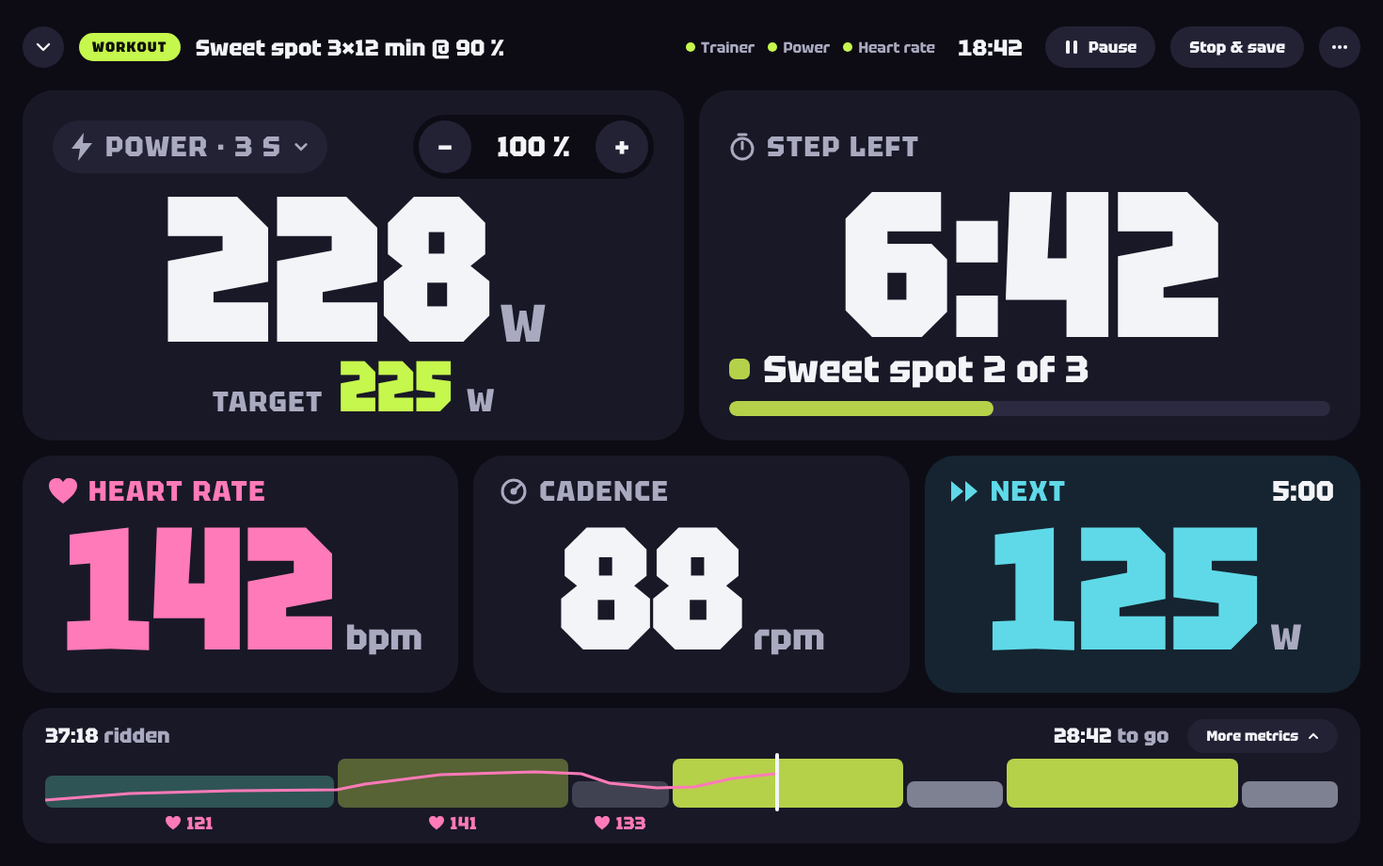
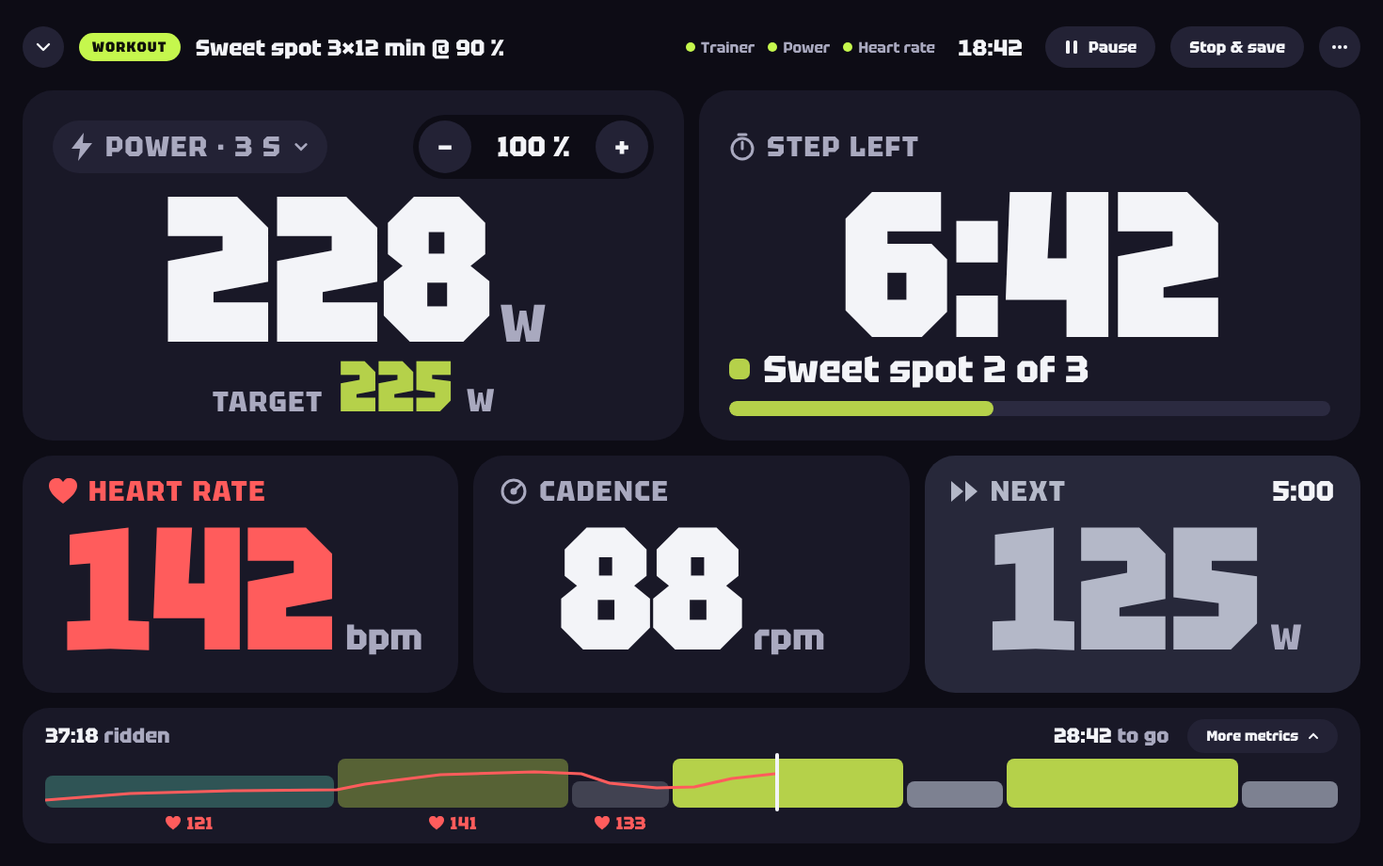
Mockups: zone-coloured Next tile and target, red heart rate; add board 1b
Claude-Session: https://claude.ai/code/session_01UuCQ5EyiaML7dv8FTSu4wK

diff --git a/design/app-redesign/1b-workout-recovery-step.html b/design/app-redesign/1b-workout-recovery-step.html
@@ -1,0 +1,81 @@
+<!doctype html>
+<html lang="en">
+<head>
+<meta charset="utf-8">
+<title>FTPunk mockup · Workout cockpit, recovery step</title>
+<link rel="preconnect" href="https://fonts.googleapis.com">
+<link href="https://fonts.googleapis.com/css2?family=Tektur:wdth,wght@75..100,400..900&amp;display=swap" rel="stylesheet">
+<style>
+body{margin:0;background:#0d0c15}
+.tile{background:#191827;border-radius:32px;box-sizing:border-box;display:flex;flex-direction:column;justify-content:space-between;min-width:0}
+.lab{font:800 30px/1 Tektur,sans-serif;letter-spacing:.05em;text-transform:uppercase;color:#a9a9bf;display:flex;align-items:center;gap:12px}
+.num{font-family:Tektur,sans-serif;font-weight:900;font-variant-numeric:tabular-nums;letter-spacing:-.02em;line-height:.8;font-variation-settings:"wdth" 85}
+.unit{font:800 44px/1 Tektur,sans-serif;color:#a9a9bf;margin-left:12px}
+.adj{all:unset;cursor:pointer;display:grid;place-items:center;min-width:56px;height:56px;padding:0 6px;box-sizing:border-box;border-radius:28px;background:#232235;color:#f3f4f8;font:800 26px Tektur,sans-serif}
+.pick{all:unset;cursor:pointer;box-sizing:border-box;display:flex;align-items:center;gap:12px;height:56px;padding:0 20px 0 18px;border-radius:28px;background:#232235;font:800 30px/1 Tektur,sans-serif;letter-spacing:.05em;text-transform:uppercase;color:#a9a9bf}
+.btn{all:unset;cursor:pointer;box-sizing:border-box;display:inline-flex;align-items:center;gap:10px;height:44px;padding:0 20px;border-radius:22px;font:800 17px Tektur,sans-serif;background:#232235;color:#f3f4f8}
+</style>
+</head>
+<body>
+<div style="width:1470px;height:920px;box-sizing:border-box;padding:20px 24px 24px;display:flex;flex-direction:column;gap:16px;background:#0d0c15;color:#f3f4f8;font-family:Tektur,sans-serif;overflow:hidden">
+  <header style="height:60px;flex-shrink:0;display:flex;align-items:center;gap:16px">
+    <button type="button" class="btn" aria-label="Minimise ride" style="width:44px;padding:0;justify-content:center"><svg aria-hidden="true" width="20" height="20" viewBox="0 0 20 20" fill="none" stroke="currentColor" stroke-width="2.4" stroke-linecap="round" stroke-linejoin="round"><path d="M4 7l6 6 6-6"></path></svg></button>
+    <span style="display:inline-flex;align-items:center;height:30px;padding:0 14px;border-radius:15px;background:#c5f74d;color:#10110a;font:900 15px Tektur;letter-spacing:.08em">WORKOUT</span>
+    <span style="font:800 24px Tektur">Sweet spot 3×12 min @ 90 %</span>
+    <span style="flex-grow:1"></span>
+    <span style="display:flex;align-items:center;gap:14px;font:700 16px Tektur;color:#a9a9bf"><span style="display:flex;align-items:center;gap:6px"><i style="width:10px;height:10px;border-radius:5px;background:#c5f74d"></i>Trainer</span><span style="display:flex;align-items:center;gap:6px"><i style="width:10px;height:10px;border-radius:5px;background:#c5f74d"></i>Power</span><span style="display:flex;align-items:center;gap:6px"><i style="width:10px;height:10px;border-radius:5px;background:#c5f74d"></i>Heart rate</span></span>
+    <span style="font:800 24px Tektur;font-variant-numeric:tabular-nums;margin:0 8px">18:42</span>
+    <button type="button" class="btn"><svg aria-hidden="true" width="16" height="16" viewBox="0 0 16 16" fill="currentColor"><rect x="2" y="1" width="4" height="14" rx="1.5"></rect><rect x="10" y="1" width="4" height="14" rx="1.5"></rect></svg>Pause</button>
+    <button type="button" class="btn">Stop &amp; save</button>
+    <button type="button" class="btn" aria-label="More options" style="width:44px;padding:0;justify-content:center"><svg aria-hidden="true" width="20" height="20" viewBox="0 0 20 20" fill="currentColor"><circle cx="4" cy="10" r="2"></circle><circle cx="10" cy="10" r="2"></circle><circle cx="16" cy="10" r="2"></circle></svg></button>
+  </header>
+
+  <div style="height:372px;flex-shrink:0;display:grid;grid-template-columns:repeat(2,minmax(0,1fr));gap:16px">
+    <section class="tile" style="padding:26px 32px">
+      <div style="display:flex;align-items:center;justify-content:space-between;min-height:68px">
+        <button type="button" class="pick" aria-label="Power average, 3 seconds. Change"><svg aria-hidden="true" width="26" height="30" viewBox="0 0 26 30" fill="#a9a9bf"><path d="M15 0L2 17h9l-2 13 15-19h-10z"></path></svg>Power · 3 s<svg aria-hidden="true" width="16" height="16" viewBox="0 0 12 12" fill="none" stroke="currentColor" stroke-width="2" stroke-linecap="round"><path d="M2 4l4 4 4-4"></path></svg></button>
+        <span style="display:flex;align-items:center;gap:6px;padding:6px;border-radius:34px;background:#0d0c15"><button type="button" class="adj" aria-label="Lower intensity by 1 percent">−</button><span style="min-width:120px;text-align:center;font:800 30px/1 Tektur,sans-serif">100 %</span><button type="button" class="adj" aria-label="Raise intensity by 1 percent">+</button></span>
+      </div>
+      <p style="margin:0;display:flex;align-items:baseline;justify-content:center"><span class="num" style="font-size:220px">127</span><span class="unit" style="font-size:56px">W</span></p>
+      <div style="display:flex;align-items:baseline;justify-content:center;gap:16px"><span class="lab">Target</span><span class="num" style="font-size:76px;color:#b4b8c8">125</span><span class="unit" style="font-size:34px;margin-left:0">W</span></div>
+    </section>
+    <section class="tile" style="padding:26px 32px">
+      <div style="display:flex;align-items:center;justify-content:space-between;min-height:68px">
+        <span class="lab"><svg aria-hidden="true" width="28" height="30" viewBox="0 0 28 30" fill="none" stroke="#a9a9bf" stroke-width="3" stroke-linecap="round"><circle cx="14" cy="17" r="11"></circle><path d="M14 17V10M10 2h8"></path></svg>Step left</span>
+        
+      </div>
+      <p style="margin:0;text-align:center"><span class="num" style="font-size:220px">3:10</span></p>
+      <div style="display:flex;flex-direction:column;gap:14px">
+        <span style="display:flex;align-items:center;gap:14px;font:800 40px/1 Tektur"><i style="width:22px;height:22px;border-radius:7px;background:#7d8191" aria-hidden="true"></i>Recovery 2 of 3</span>
+        <div style="height:16px;border-radius:8px;background:#2b2a40;overflow:hidden" aria-hidden="true"><i style="display:block;width:37%;height:100%;border-radius:8px;background:#7d8191"></i></div>
+      </div>
+    </section>
+  </div>
+
+  <div style="height:252px;flex-shrink:0;display:grid;grid-template-columns:repeat(3,minmax(0,1fr));gap:16px">
+    <section style="background:#191827;border-radius:32px;box-sizing:border-box;display:flex;flex-direction:column;min-width:0;padding:22px 28px">
+      <span style="display:flex;align-items:center;justify-content:space-between;min-height:32px"><span class="lab" style="color:#ff5c5c"><svg aria-hidden="true" width="30" height="28" viewBox="0 0 30 28" fill="#ff5c5c"><path d="M15 27C4 19 0 13 0 8a8 8 0 0115-4 8 8 0 0115 4c0 5-4 11-15 19z"></path></svg>Heart rate</span></span>
+      <span style="flex-grow:1;display:flex;align-items:center;justify-content:center"><span style="display:flex;align-items:baseline"><span class="num" style="font-size:185px;color:#ff5c5c">128</span><span class="unit" style="font-size:38px">bpm</span></span></span>
+    </section>
+    <section style="background:#191827;border-radius:32px;box-sizing:border-box;display:flex;flex-direction:column;min-width:0;padding:22px 28px">
+      <span style="display:flex;align-items:center;justify-content:space-between;min-height:32px"><span class="lab" style="color:#a9a9bf"><svg aria-hidden="true" width="30" height="30" viewBox="0 0 30 30" fill="none" stroke="#a9a9bf" stroke-width="3" stroke-linecap="round"><circle cx="15" cy="15" r="12"></circle><path d="M15 15l7-7"></path><circle cx="15" cy="15" r="2" fill="#a9a9bf"></circle></svg>Cadence</span></span>
+      <span style="flex-grow:1;display:flex;align-items:center;justify-content:center"><span style="display:flex;align-items:baseline"><span class="num" style="font-size:185px;color:#f3f4f8">86</span><span class="unit" style="font-size:38px">rpm</span></span></span>
+    </section>
+    <button type="button" aria-label="Next: Sweet spot, 225 watts, 12 minutes. Skip to it now" style="all:unset;cursor:pointer;background:#2a3320;border-radius:32px;box-sizing:border-box;display:flex;flex-direction:column;min-width:0;padding:22px 28px">
+      <span style="display:flex;align-items:center;justify-content:space-between;min-height:32px"><span class="lab" style="color:#b5d14a"><svg aria-hidden="true" width="30" height="26" viewBox="0 0 30 26" fill="#b5d14a"><path d="M0 2l13 11L0 24zM15 2l13 11-13 11z"></path></svg>Next</span><span style="font:800 30px/1 Tektur,sans-serif;color:#f3f4f8">12:00</span></span>
+      <span style="flex-grow:1;display:flex;align-items:center;justify-content:center"><span style="display:flex;align-items:baseline"><span class="num" style="font-size:185px;color:#b5d14a">225</span><span class="unit" style="font-size:38px">W</span></span></span>
+    </button>
+  </div>
+
+  <section aria-label="Workout profile with the heart-rate line and the average heart rate of each finished step" style="flex-grow:1;min-height:0;background:#191827;border-radius:28px;padding:12px 24px;box-sizing:border-box;display:flex;flex-direction:column;justify-content:space-between">
+    <div style="display:flex;align-items:center;gap:20px;font:800 22px/1 Tektur;color:#a9a9bf"><span style="flex-grow:1"><span style="color:#f3f4f8">45:50</span> ridden</span><span><span style="color:#f3f4f8">20:10</span> to go</span><button type="button" class="btn" style="height:36px;font-size:15px" aria-expanded="false">More metrics<svg aria-hidden="true" width="12" height="12" viewBox="0 0 12 12" fill="none" stroke="currentColor" stroke-width="2" stroke-linecap="round"><path d="M2 8l4-4 4 4"></path></svg></button></div>
+    <div style="position:relative;height:52px;display:flex;align-items:flex-end;gap:4px" aria-hidden="true">
+      <i style="flex:15;height:34px;border-radius:8px;background:#4fae9c;opacity:.4"></i><i style="flex:12;height:52px;border-radius:8px;background:#b5d14a;opacity:.4"></i><i style="flex:5;height:28px;border-radius:8px;background:#7d8191;opacity:.4"></i><i style="flex:12;height:52px;border-radius:8px;background:#b5d14a;opacity:.4"></i><i style="flex:5;height:28px;border-radius:8px;background:#7d8191"></i><i style="flex:12;height:52px;border-radius:8px;background:#b5d14a"></i><i style="flex:5;height:28px;border-radius:8px;background:#7d8191"></i>
+      <svg viewBox="0 0 1374 52" preserveAspectRatio="none" style="position:absolute;left:0;top:0;width:100%;height:52px"><polyline fill="none" stroke="#ff5c5c" stroke-width="3" stroke-linejoin="round" points="0,44 90,37 200,34 310,33 340,27 420,17 520,14 570,16 600,26 650,31 690,30 730,21 776,16 860,13 912,14 935,24 958,29"></polyline></svg>
+      <i style="position:absolute;left:69.8%;top:-6px;bottom:-4px;width:4px;border-radius:2px;background:#f3f4f8"></i>
+    </div>
+    <div style="display:flex;gap:4px;height:20px;font:800 19px/1 Tektur,sans-serif"><span style="flex:15;display:flex;align-items:center;justify-content:center;gap:6px;color:#ff5c5c"><svg aria-hidden="true" width="16" height="15" viewBox="0 0 30 28" fill="#ff5c5c"><path d="M15 27C4 19 0 13 0 8a8 8 0 0115-4 8 8 0 0115 4c0 5-4 11-15 19z"></path></svg>121</span><span style="flex:12;display:flex;align-items:center;justify-content:center;gap:6px;color:#ff5c5c"><svg aria-hidden="true" width="16" height="15" viewBox="0 0 30 28" fill="#ff5c5c"><path d="M15 27C4 19 0 13 0 8a8 8 0 0115-4 8 8 0 0115 4c0 5-4 11-15 19z"></path></svg>141</span><span style="flex:5;display:flex;align-items:center;justify-content:center;gap:6px;color:#ff5c5c"><svg aria-hidden="true" width="16" height="15" viewBox="0 0 30 28" fill="#ff5c5c"><path d="M15 27C4 19 0 13 0 8a8 8 0 0115-4 8 8 0 0115 4c0 5-4 11-15 19z"></path></svg>133</span><span style="flex:12;display:flex;align-items:center;justify-content:center;gap:6px;color:#ff5c5c"><svg aria-hidden="true" width="16" height="15" viewBox="0 0 30 28" fill="#ff5c5c"><path d="M15 27C4 19 0 13 0 8a8 8 0 0115-4 8 8 0 0115 4c0 5-4 11-15 19z"></path></svg>143</span><span style="flex:5;display:flex;align-items:center;justify-content:center;gap:6px;color:#ff5c5c"></span><span style="flex:12;display:flex;align-items:center;justify-content:center;gap:6px;color:#ff5c5c"></span><span style="flex:5;display:flex;align-items:center;justify-content:center;gap:6px;color:#ff5c5c"></span></div>
+  </section>
+</div>
+</body>
+</html>

diff --git a/design/app-redesign/1-workout.html b/design/app-redesign/1-workout.html
@@ -37,7 +37,7 @@ body{margin:0;background:#0d0c15}
         <span style="display:flex;align-items:center;gap:6px;padding:6px;border-radius:34px;background:#0d0c15"><button type="button" class="adj" aria-label="Lower intensity by 1 percent">−</button><span style="min-width:120px;text-align:center;font:800 30px/1 Tektur,sans-serif">100 %</span><button type="button" class="adj" aria-label="Raise intensity by 1 percent">+</button></span>
       </div>
       <p style="margin:0;display:flex;align-items:baseline;justify-content:center"><span class="num" style="font-size:220px">228</span><span class="unit" style="font-size:56px">W</span></p>
-      <div style="display:flex;align-items:baseline;justify-content:center;gap:16px"><span class="lab">Target</span><span class="num" style="font-size:76px;color:#c5f74d">225</span><span class="unit" style="font-size:34px;margin-left:0">W</span></div>
+      <div style="display:flex;align-items:baseline;justify-content:center;gap:16px"><span class="lab">Target</span><span class="num" style="font-size:76px;color:#b5d14a">225</span><span class="unit" style="font-size:34px;margin-left:0">W</span></div>
     </section>
     <section class="tile" style="padding:26px 32px">
       <div style="display:flex;align-items:center;justify-content:space-between;min-height:68px">
@@ -54,16 +54,16 @@ body{margin:0;background:#0d0c15}
 
   <div style="height:252px;flex-shrink:0;display:grid;grid-template-columns:repeat(3,minmax(0,1fr));gap:16px">
     <section style="background:#191827;border-radius:32px;box-sizing:border-box;display:flex;flex-direction:column;min-width:0;padding:22px 28px">
-      <span style="display:flex;align-items:center;justify-content:space-between;min-height:32px"><span class="lab" style="color:#ff7ab8"><svg aria-hidden="true" width="30" height="28" viewBox="0 0 30 28" fill="#ff7ab8"><path d="M15 27C4 19 0 13 0 8a8 8 0 0115-4 8 8 0 0115 4c0 5-4 11-15 19z"></path></svg>Heart rate</span></span>
-      <span style="flex-grow:1;display:flex;align-items:center;justify-content:center"><span style="display:flex;align-items:baseline"><span class="num" style="font-size:185px;color:#ff7ab8">142</span><span class="unit" style="font-size:38px">bpm</span></span></span>
+      <span style="display:flex;align-items:center;justify-content:space-between;min-height:32px"><span class="lab" style="color:#ff5c5c"><svg aria-hidden="true" width="30" height="28" viewBox="0 0 30 28" fill="#ff5c5c"><path d="M15 27C4 19 0 13 0 8a8 8 0 0115-4 8 8 0 0115 4c0 5-4 11-15 19z"></path></svg>Heart rate</span></span>
+      <span style="flex-grow:1;display:flex;align-items:center;justify-content:center"><span style="display:flex;align-items:baseline"><span class="num" style="font-size:185px;color:#ff5c5c">142</span><span class="unit" style="font-size:38px">bpm</span></span></span>
     </section>
     <section style="background:#191827;border-radius:32px;box-sizing:border-box;display:flex;flex-direction:column;min-width:0;padding:22px 28px">
       <span style="display:flex;align-items:center;justify-content:space-between;min-height:32px"><span class="lab" style="color:#a9a9bf"><svg aria-hidden="true" width="30" height="30" viewBox="0 0 30 30" fill="none" stroke="#a9a9bf" stroke-width="3" stroke-linecap="round"><circle cx="15" cy="15" r="12"></circle><path d="M15 15l7-7"></path><circle cx="15" cy="15" r="2" fill="#a9a9bf"></circle></svg>Cadence</span></span>
       <span style="flex-grow:1;display:flex;align-items:center;justify-content:center"><span style="display:flex;align-items:baseline"><span class="num" style="font-size:185px;color:#f3f4f8">88</span><span class="unit" style="font-size:38px">rpm</span></span></span>
     </section>
-    <button type="button" aria-label="Next: Recovery, 125 watts, 5 minutes. Skip to it now" style="all:unset;cursor:pointer;background:#152430;border-radius:32px;box-sizing:border-box;display:flex;flex-direction:column;min-width:0;padding:22px 28px">
-      <span style="display:flex;align-items:center;justify-content:space-between;min-height:32px"><span class="lab" style="color:#5fd9e8"><svg aria-hidden="true" width="30" height="26" viewBox="0 0 30 26" fill="#5fd9e8"><path d="M0 2l13 11L0 24zM15 2l13 11-13 11z"></path></svg>Next</span><span style="font:800 30px/1 Tektur,sans-serif;color:#f3f4f8">5:00</span></span>
-      <span style="flex-grow:1;display:flex;align-items:center;justify-content:center"><span style="display:flex;align-items:baseline"><span class="num" style="font-size:185px;color:#5fd9e8">125</span><span class="unit" style="font-size:38px">W</span></span></span>
+    <button type="button" aria-label="Next: Recovery, 125 watts, 5 minutes. Skip to it now" style="all:unset;cursor:pointer;background:#27283a;border-radius:32px;box-sizing:border-box;display:flex;flex-direction:column;min-width:0;padding:22px 28px">
+      <span style="display:flex;align-items:center;justify-content:space-between;min-height:32px"><span class="lab" style="color:#b4b8c8"><svg aria-hidden="true" width="30" height="26" viewBox="0 0 30 26" fill="#b4b8c8"><path d="M0 2l13 11L0 24zM15 2l13 11-13 11z"></path></svg>Next</span><span style="font:800 30px/1 Tektur,sans-serif;color:#f3f4f8">5:00</span></span>
+      <span style="flex-grow:1;display:flex;align-items:center;justify-content:center"><span style="display:flex;align-items:baseline"><span class="num" style="font-size:185px;color:#b4b8c8">125</span><span class="unit" style="font-size:38px">W</span></span></span>
     </button>
   </div>
 
@@ -71,10 +71,10 @@ body{margin:0;background:#0d0c15}
     <div style="display:flex;align-items:center;gap:20px;font:800 22px/1 Tektur;color:#a9a9bf"><span style="flex-grow:1"><span style="color:#f3f4f8">37:18</span> ridden</span><span><span style="color:#f3f4f8">28:42</span> to go</span><button type="button" class="btn" style="height:36px;font-size:15px" aria-expanded="false">More metrics<svg aria-hidden="true" width="12" height="12" viewBox="0 0 12 12" fill="none" stroke="currentColor" stroke-width="2" stroke-linecap="round"><path d="M2 8l4-4 4 4"></path></svg></button></div>
     <div style="position:relative;height:52px;display:flex;align-items:flex-end;gap:4px" aria-hidden="true">
       <i style="flex:15;height:34px;border-radius:8px;background:#4fae9c;opacity:.4"></i><i style="flex:12;height:52px;border-radius:8px;background:#b5d14a;opacity:.4"></i><i style="flex:5;height:28px;border-radius:8px;background:#7d8191;opacity:.4"></i><i style="flex:12;height:52px;border-radius:8px;background:#b5d14a"></i><i style="flex:5;height:28px;border-radius:8px;background:#7d8191"></i><i style="flex:12;height:52px;border-radius:8px;background:#b5d14a"></i><i style="flex:5;height:28px;border-radius:8px;background:#7d8191"></i>
-      <svg viewBox="0 0 1374 52" preserveAspectRatio="none" style="position:absolute;left:0;top:0;width:100%;height:52px"><polyline fill="none" stroke="#ff7ab8" stroke-width="3" stroke-linejoin="round" points="0,44 90,37 200,34 310,33 340,27 420,17 520,14 570,16 600,26 650,31 690,30 730,21 776,16"></polyline></svg>
+      <svg viewBox="0 0 1374 52" preserveAspectRatio="none" style="position:absolute;left:0;top:0;width:100%;height:52px"><polyline fill="none" stroke="#ff5c5c" stroke-width="3" stroke-linejoin="round" points="0,44 90,37 200,34 310,33 340,27 420,17 520,14 570,16 600,26 650,31 690,30 730,21 776,16"></polyline></svg>
       <i style="position:absolute;left:56.5%;top:-6px;bottom:-4px;width:4px;border-radius:2px;background:#f3f4f8"></i>
     </div>
-    <div style="display:flex;gap:4px;height:20px;font:800 19px/1 Tektur,sans-serif"><span style="flex:15;display:flex;align-items:center;justify-content:center;gap:6px;color:#ff7ab8"><svg aria-hidden="true" width="16" height="15" viewBox="0 0 30 28" fill="#ff7ab8"><path d="M15 27C4 19 0 13 0 8a8 8 0 0115-4 8 8 0 0115 4c0 5-4 11-15 19z"></path></svg>121</span><span style="flex:12;display:flex;align-items:center;justify-content:center;gap:6px;color:#ff7ab8"><svg aria-hidden="true" width="16" height="15" viewBox="0 0 30 28" fill="#ff7ab8"><path d="M15 27C4 19 0 13 0 8a8 8 0 0115-4 8 8 0 0115 4c0 5-4 11-15 19z"></path></svg>141</span><span style="flex:5;display:flex;align-items:center;justify-content:center;gap:6px;color:#ff7ab8"><svg aria-hidden="true" width="16" height="15" viewBox="0 0 30 28" fill="#ff7ab8"><path d="M15 27C4 19 0 13 0 8a8 8 0 0115-4 8 8 0 0115 4c0 5-4 11-15 19z"></path></svg>133</span><span style="flex:12;display:flex;align-items:center;justify-content:center;gap:6px;color:#ff7ab8"></span><span style="flex:5;display:flex;align-items:center;justify-content:center;gap:6px;color:#ff7ab8"></span><span style="flex:12;display:flex;align-items:center;justify-content:center;gap:6px;color:#ff7ab8"></span><span style="flex:5;display:flex;align-items:center;justify-content:center;gap:6px;color:#ff7ab8"></span></div>
+    <div style="display:flex;gap:4px;height:20px;font:800 19px/1 Tektur,sans-serif"><span style="flex:15;display:flex;align-items:center;justify-content:center;gap:6px;color:#ff5c5c"><svg aria-hidden="true" width="16" height="15" viewBox="0 0 30 28" fill="#ff5c5c"><path d="M15 27C4 19 0 13 0 8a8 8 0 0115-4 8 8 0 0115 4c0 5-4 11-15 19z"></path></svg>121</span><span style="flex:12;display:flex;align-items:center;justify-content:center;gap:6px;color:#ff5c5c"><svg aria-hidden="true" width="16" height="15" viewBox="0 0 30 28" fill="#ff5c5c"><path d="M15 27C4 19 0 13 0 8a8 8 0 0115-4 8 8 0 0115 4c0 5-4 11-15 19z"></path></svg>141</span><span style="flex:5;display:flex;align-items:center;justify-content:center;gap:6px;color:#ff5c5c"><svg aria-hidden="true" width="16" height="15" viewBox="0 0 30 28" fill="#ff5c5c"><path d="M15 27C4 19 0 13 0 8a8 8 0 0115-4 8 8 0 0115 4c0 5-4 11-15 19z"></path></svg>133</span><span style="flex:12;display:flex;align-items:center;justify-content:center;gap:6px;color:#ff5c5c"></span><span style="flex:5;display:flex;align-items:center;justify-content:center;gap:6px;color:#ff5c5c"></span><span style="flex:12;display:flex;align-items:center;justify-content:center;gap:6px;color:#ff5c5c"></span><span style="flex:5;display:flex;align-items:center;justify-content:center;gap:6px;color:#ff5c5c"></span></div>
   </section>
 </div>
 </body>

diff --git a/design/app-redesign/3-free-ride.html b/design/app-redesign/3-free-ride.html
@@ -57,8 +57,8 @@ body{margin:0;background:#0d0c15}
 
   <div style="height:252px;flex-shrink:0;display:grid;grid-template-columns:repeat(3,minmax(0,1fr));gap:16px">
     <section style="background:#191827;border-radius:32px;box-sizing:border-box;display:flex;flex-direction:column;min-width:0;padding:22px 28px">
-      <span style="display:flex;align-items:center;justify-content:space-between;min-height:32px"><span class="lab" style="color:#ff7ab8"><svg aria-hidden="true" width="30" height="28" viewBox="0 0 30 28" fill="#ff7ab8"><path d="M15 27C4 19 0 13 0 8a8 8 0 0115-4 8 8 0 0115 4c0 5-4 11-15 19z"></path></svg>Heart rate</span><span style="font:800 30px/1 Tektur,sans-serif;color:#a9a9bf">Avg 128</span></span>
-      <span style="flex-grow:1;display:flex;align-items:center;justify-content:center"><span style="display:flex;align-items:baseline"><span class="num" style="font-size:185px;color:#ff7ab8">131</span><span class="unit" style="font-size:38px">bpm</span></span></span>
+      <span style="display:flex;align-items:center;justify-content:space-between;min-height:32px"><span class="lab" style="color:#ff5c5c"><svg aria-hidden="true" width="30" height="28" viewBox="0 0 30 28" fill="#ff5c5c"><path d="M15 27C4 19 0 13 0 8a8 8 0 0115-4 8 8 0 0115 4c0 5-4 11-15 19z"></path></svg>Heart rate</span><span style="font:800 30px/1 Tektur,sans-serif;color:#a9a9bf">Avg 128</span></span>
+      <span style="flex-grow:1;display:flex;align-items:center;justify-content:center"><span style="display:flex;align-items:baseline"><span class="num" style="font-size:185px;color:#ff5c5c">131</span><span class="unit" style="font-size:38px">bpm</span></span></span>
     </section>
     <section style="background:#191827;border-radius:32px;box-sizing:border-box;display:flex;flex-direction:column;min-width:0;padding:22px 28px">
       <span style="display:flex;align-items:center;justify-content:space-between;min-height:32px"><span class="lab" style="color:#a9a9bf"><svg aria-hidden="true" width="30" height="30" viewBox="0 0 30 30" fill="none" stroke="#a9a9bf" stroke-width="3" stroke-linecap="round"><circle cx="15" cy="15" r="12"></circle><path d="M15 15l7-7"></path><circle cx="15" cy="15" r="2" fill="#a9a9bf"></circle></svg>Cadence</span><span style="font:800 30px/1 Tektur,sans-serif;color:#a9a9bf">Avg 89</span></span>
@@ -71,10 +71,10 @@ body{margin:0;background:#0d0c15}
   </div>
 
   <section style="flex-grow:1;min-height:0;background:#191827;border-radius:28px;padding:18px 24px;box-sizing:border-box;display:flex;flex-direction:column;gap:10px">
-    <div style="display:flex;align-items:center;gap:22px;font:800 22px/1 Tektur;color:#a9a9bf"><span style="flex-grow:1">Last 10 min</span><span style="display:flex;align-items:center;gap:8px"><i style="width:24px;height:4px;border-radius:2px;background:#c5f74d"></i>Power</span><span style="display:flex;align-items:center;gap:8px"><i style="width:24px;height:0;border-top:3px dashed #7d7c96"></i>Target</span><span style="display:flex;align-items:center;gap:8px"><i style="width:24px;height:4px;border-radius:2px;background:#ff7ab8"></i>Heart rate</span><button type="button" class="btn" style="height:36px;font-size:15px" aria-expanded="false">More metrics<svg aria-hidden="true" width="12" height="12" viewBox="0 0 12 12" fill="none" stroke="currentColor" stroke-width="2" stroke-linecap="round"><path d="M2 8l4-4 4 4"></path></svg></button></div>
+    <div style="display:flex;align-items:center;gap:22px;font:800 22px/1 Tektur;color:#a9a9bf"><span style="flex-grow:1">Last 10 min</span><span style="display:flex;align-items:center;gap:8px"><i style="width:24px;height:4px;border-radius:2px;background:#c5f74d"></i>Power</span><span style="display:flex;align-items:center;gap:8px"><i style="width:24px;height:0;border-top:3px dashed #7d7c96"></i>Target</span><span style="display:flex;align-items:center;gap:8px"><i style="width:24px;height:4px;border-radius:2px;background:#ff5c5c"></i>Heart rate</span><button type="button" class="btn" style="height:36px;font-size:15px" aria-expanded="false">More metrics<svg aria-hidden="true" width="12" height="12" viewBox="0 0 12 12" fill="none" stroke="currentColor" stroke-width="2" stroke-linecap="round"><path d="M2 8l4-4 4 4"></path></svg></button></div>
     <svg role="img" aria-label="Power against the target and heart rate over the last ten minutes" viewBox="0 0 1374 78" preserveAspectRatio="none" style="flex-grow:1;width:100%;min-height:0">
       <polyline fill="none" stroke="#5a5973" stroke-width="2.5" stroke-dasharray="8 8" points="0,66 620,66 620,46 1374,46"></polyline>
-      <polyline fill="none" stroke="#ff7ab8" stroke-width="3" stroke-linejoin="round" points="0,30 150,28 300,29 450,27 620,28 700,22 800,15 950,10 1100,8 1250,7 1374,6"></polyline>
+      <polyline fill="none" stroke="#ff5c5c" stroke-width="3" stroke-linejoin="round" points="0,30 150,28 300,29 450,27 620,28 700,22 800,15 950,10 1100,8 1250,7 1374,6"></polyline>
       <polyline fill="none" stroke="#c5f74d" stroke-width="4" stroke-linejoin="round" stroke-linecap="round" points="0,64 110,68 220,65 330,67 440,64 550,67 620,65 660,50 770,44 880,48 990,45 1100,47 1210,44 1374,46"></polyline>
     </svg>
   </section>

diff --git a/design/app-redesign/5-ride-summary.html b/design/app-redesign/5-ride-summary.html
@@ -43,8 +43,8 @@ body{margin:0;background:#0d0c15}
       <div class="stat"><span class="eyebrow">Best minute</span><b>290<span>W</span></b></div>
       <div class="stat"><span class="eyebrow">Average power</span><b>194<span>W</span></b></div>
       <div class="stat"><span class="eyebrow">Normalized power</span><b>220<span>W</span></b></div>
-      <div class="stat"><span class="eyebrow" style="color:#ff7ab8">Average heart rate</span><b>139<span>bpm</span></b></div>
-      <div class="stat"><span class="eyebrow" style="color:#ff7ab8">Max heart rate</span><b>162<span>bpm</span></b></div>
+      <div class="stat"><span class="eyebrow" style="color:#ff5c5c">Average heart rate</span><b>139<span>bpm</span></b></div>
+      <div class="stat"><span class="eyebrow" style="color:#ff5c5c">Max heart rate</span><b>162<span>bpm</span></b></div>
       <div class="stat"><span class="eyebrow">Average cadence</span><b>87<span>rpm</span></b></div>
       <div class="stat"><span class="eyebrow">Work</span><b>101<span>kJ</span></b></div>
     </div>
@@ -55,7 +55,7 @@ body{margin:0;background:#0d0c15}
       <h2 style="margin:0;font:900 18px Tektur;color:#f3f4f8;flex-grow:1">Power and heart rate</h2>
       <span style="display:flex;align-items:center;gap:8px"><i style="width:22px;height:4px;border-radius:2px;background:#c5f74d"></i>Power</span>
       <span style="display:flex;align-items:center;gap:8px"><i style="width:22px;height:0;border-top:3px dashed #a9a9bf"></i>Target</span>
-      <span style="display:flex;align-items:center;gap:8px"><i style="width:22px;height:4px;border-radius:2px;background:#ff7ab8"></i>Heart rate</span>
+      <span style="display:flex;align-items:center;gap:8px"><i style="width:22px;height:4px;border-radius:2px;background:#ff5c5c"></i>Heart rate</span>
       <span style="display:flex;align-items:center;gap:8px"><i style="width:22px;height:12px;border-radius:4px;background:#c5f74d;opacity:.3"></i>Best minute</span>
     </div>
     <svg role="img" aria-label="Power rising with the ramp to 300 watts, heart rate rising to 162, best minute shaded near the end" viewBox="0 0 1400 320" style="flex-grow:1;width:100%;min-height:0">
@@ -63,10 +63,10 @@ body{margin:0;background:#0d0c15}
       <rect x="974" y="10" width="146" height="260" rx="10" fill="#c5f74d" opacity=".16"></rect>
       <text x="1047" y="34" text-anchor="middle" style="font:800 14px Tektur,sans-serif;fill:#c5f74d">Best minute 290 W</text>
       <polyline fill="none" stroke="#a9a9bf" stroke-width="2" stroke-dasharray="7 7" points="50,189 74,189 74,205 1120,69 1120,205 1150,205"></polyline>
-      <polyline fill="none" stroke="#ff7ab8" stroke-width="3" stroke-linejoin="round" points="50,172 200,176 400,166 600,150 800,130 1000,108 1120,92 1126,222 1150,226"></polyline>
+      <polyline fill="none" stroke="#ff5c5c" stroke-width="3" stroke-linejoin="round" points="50,172 200,176 400,166 600,150 800,130 1000,108 1120,92 1126,222 1150,226"></polyline>
       <polyline fill="none" stroke="#c5f74d" stroke-width="4" stroke-linejoin="round" stroke-linecap="round" points="50,205 60,190 74,189 82,204 250,183 450,156 650,131 850,105 1000,86 1120,72 1126,190 1138,196 1150,268"></polyline>
       <g class="axis"><text x="40" y="274" text-anchor="end">0</text><text x="40" y="209" text-anchor="end">100</text><text x="40" y="144" text-anchor="end">200</text><text x="40" y="79" text-anchor="end">300 W</text>
-      <text x="1322" y="209" style="fill:#ff7ab8">110</text><text x="1322" y="144" style="fill:#ff7ab8">140</text><text x="1322" y="79" style="fill:#ff7ab8">170 bpm</text>
+      <text x="1322" y="209" style="fill:#ff5c5c">110</text><text x="1322" y="144" style="fill:#ff5c5c">140</text><text x="1322" y="79" style="fill:#ff5c5c">170 bpm</text>
       <text x="50" y="298">0:00</text><text x="342" y="298" text-anchor="middle">2:00</text><text x="634" y="298" text-anchor="middle">4:00</text><text x="926" y="298" text-anchor="middle">6:00</text><text x="1218" y="298" text-anchor="middle">8:00</text></g>
     </svg>
   </section>

diff --git a/design/app-redesign/3b-free-ride-more-metrics.html b/design/app-redesign/3b-free-ride-more-metrics.html
@@ -58,8 +58,8 @@ body{margin:0;background:#0d0c15}
 
   <div style="height:252px;flex-shrink:0;display:grid;grid-template-columns:repeat(3,minmax(0,1fr));gap:16px">
     <section style="background:#191827;border-radius:32px;box-sizing:border-box;display:flex;flex-direction:column;min-width:0;padding:22px 28px">
-      <span style="display:flex;align-items:center;justify-content:space-between;min-height:32px"><span class="lab" style="color:#ff7ab8"><svg aria-hidden="true" width="30" height="28" viewBox="0 0 30 28" fill="#ff7ab8"><path d="M15 27C4 19 0 13 0 8a8 8 0 0115-4 8 8 0 0115 4c0 5-4 11-15 19z"></path></svg>Heart rate</span><span style="font:800 30px/1 Tektur,sans-serif;color:#a9a9bf">Avg 128</span></span>
-      <span style="flex-grow:1;display:flex;align-items:center;justify-content:center"><span style="display:flex;align-items:baseline"><span class="num" style="font-size:185px;color:#ff7ab8">131</span><span class="unit" style="font-size:38px">bpm</span></span></span>
+      <span style="display:flex;align-items:center;justify-content:space-between;min-height:32px"><span class="lab" style="color:#ff5c5c"><svg aria-hidden="true" width="30" height="28" viewBox="0 0 30 28" fill="#ff5c5c"><path d="M15 27C4 19 0 13 0 8a8 8 0 0115-4 8 8 0 0115 4c0 5-4 11-15 19z"></path></svg>Heart rate</span><span style="font:800 30px/1 Tektur,sans-serif;color:#a9a9bf">Avg 128</span></span>
+      <span style="flex-grow:1;display:flex;align-items:center;justify-content:center"><span style="display:flex;align-items:baseline"><span class="num" style="font-size:185px;color:#ff5c5c">131</span><span class="unit" style="font-size:38px">bpm</span></span></span>
     </section>
     <section style="background:#191827;border-radius:32px;box-sizing:border-box;display:flex;flex-direction:column;min-width:0;padding:22px 28px">
       <span style="display:flex;align-items:center;justify-content:space-between;min-height:32px"><span class="lab" style="color:#a9a9bf"><svg aria-hidden="true" width="30" height="30" viewBox="0 0 30 30" fill="none" stroke="#a9a9bf" stroke-width="3" stroke-linecap="round"><circle cx="15" cy="15" r="12"></circle><path d="M15 15l7-7"></path><circle cx="15" cy="15" r="2" fill="#a9a9bf"></circle></svg>Cadence</span><span style="font:800 30px/1 Tektur,sans-serif;color:#a9a9bf">Avg 89</span></span>

diff --git a/design/app-redesign/2b-ftp-test-warm-up.html b/design/app-redesign/2b-ftp-test-warm-up.html
@@ -52,8 +52,8 @@ body{margin:0;background:#0d0c15}
 
   <div style="height:252px;flex-shrink:0;display:grid;grid-template-columns:repeat(3,minmax(0,1fr));gap:16px">
     <section style="background:#191827;border-radius:32px;box-sizing:border-box;display:flex;flex-direction:column;min-width:0;padding:22px 28px">
-      <span style="display:flex;align-items:center;justify-content:space-between;min-height:32px"><span class="lab" style="color:#ff7ab8"><svg aria-hidden="true" width="30" height="28" viewBox="0 0 30 28" fill="#ff7ab8"><path d="M15 27C4 19 0 13 0 8a8 8 0 0115-4 8 8 0 0115 4c0 5-4 11-15 19z"></path></svg>Heart rate</span></span>
-      <span style="flex-grow:1;display:flex;align-items:center;justify-content:center"><span style="display:flex;align-items:baseline"><span class="num" style="font-size:185px;color:#ff7ab8">112</span><span class="unit" style="font-size:38px">bpm</span></span></span>
+      <span style="display:flex;align-items:center;justify-content:space-between;min-height:32px"><span class="lab" style="color:#ff5c5c"><svg aria-hidden="true" width="30" height="28" viewBox="0 0 30 28" fill="#ff5c5c"><path d="M15 27C4 19 0 13 0 8a8 8 0 0115-4 8 8 0 0115 4c0 5-4 11-15 19z"></path></svg>Heart rate</span></span>
+      <span style="flex-grow:1;display:flex;align-items:center;justify-content:center"><span style="display:flex;align-items:baseline"><span class="num" style="font-size:185px;color:#ff5c5c">112</span><span class="unit" style="font-size:38px">bpm</span></span></span>
     </section>
     <section style="background:#191827;border-radius:32px;box-sizing:border-box;display:flex;flex-direction:column;min-width:0;padding:22px 28px">
       <span style="display:flex;align-items:center;justify-content:space-between;min-height:32px"><span class="lab" style="color:#a9a9bf"><svg aria-hidden="true" width="30" height="30" viewBox="0 0 30 30" fill="none" stroke="#a9a9bf" stroke-width="3" stroke-linecap="round"><circle cx="15" cy="15" r="12"></circle><path d="M15 15l7-7"></path><circle cx="15" cy="15" r="2" fill="#a9a9bf"></circle></svg>Cadence</span></span>

diff --git a/design/app-redesign/2-ftp-test-ramp.html b/design/app-redesign/2-ftp-test-ramp.html
@@ -50,8 +50,8 @@ body{margin:0;background:#0d0c15}
 
   <div style="height:250px;flex-shrink:0;display:grid;grid-template-columns:minmax(0,1fr) minmax(0,2fr);gap:16px">
     <section style="background:#191827;border-radius:32px;box-sizing:border-box;display:flex;flex-direction:column;justify-content:space-between;min-width:0;padding:22px 28px">
-      <span style="display:flex;align-items:center;justify-content:space-between;min-height:32px"><span class="lab" style="color:#ff7ab8"><svg aria-hidden="true" width="30" height="28" viewBox="0 0 30 28" fill="#ff7ab8"><path d="M15 27C4 19 0 13 0 8a8 8 0 0115-4 8 8 0 0115 4c0 5-4 11-15 19z"></path></svg>Heart rate</span><span style="font:700 24px/1 Tektur,sans-serif;color:#a9a9bf">Max 171</span></span>
-      <span style="display:flex;align-items:baseline;justify-content:center"><span class="num" style="font-size:150px;color:#ff7ab8">171</span><span class="unit">bpm</span></span>
+      <span style="display:flex;align-items:center;justify-content:space-between;min-height:32px"><span class="lab" style="color:#ff5c5c"><svg aria-hidden="true" width="30" height="28" viewBox="0 0 30 28" fill="#ff5c5c"><path d="M15 27C4 19 0 13 0 8a8 8 0 0115-4 8 8 0 0115 4c0 5-4 11-15 19z"></path></svg>Heart rate</span><span style="font:700 24px/1 Tektur,sans-serif;color:#a9a9bf">Max 171</span></span>
+      <span style="display:flex;align-items:baseline;justify-content:center"><span class="num" style="font-size:150px;color:#ff5c5c">171</span><span class="unit">bpm</span></span>
       <span style="min-height:30px;font:800 30px/1 Tektur,sans-serif;text-align:center"></span>
     </section>
     <section class="tile" style="padding:22px 28px">

diff --git a/docs/next/11-ride-dashboard.md b/docs/next/11-ride-dashboard.md
@@ -65,18 +65,18 @@ two near-identical hints; "Workout time" jumps on Skip while the saved ride show
 - Sound before each step: yes.
 - Skip step: clicking the cyan **Next** tile skips to that step. No separate button.
 - Chaindance: off by default (plan 10), no work on it.
-- **Zone colours (workout screen only), decided without a mockup; the mockups still show the
-  fixed cyan Next tile and lime target, and this paragraph wins where they differ:**
-  - The **Next** tile takes the colour of the next step's power zone from the workout profile
-    (same palette as the profile strip). The fast-forward icon and the top-right duration stay.
-  - In the **power** tile only the *target* takes the current step's zone colour. The 3 s power
-    number stays white.
-  - **Heart rate moves from pink to red** (the colour of the heart-rate line), because threshold
-    and VO2max are pink in the zone palette. Do this on every ride screen so heart rate has one colour.
-  - Sweet spot is close to the lime accent; accept that, no special case.
-  - FTP test keeps lime/cyan, free ride keeps lime. No zone colours there.
-  - Contrast: text on a zone-coloured tile must keep at least 4.5:1; pick dark or white text per zone.
-  - Report these as intended deviations from `1-workout.html` in the wrap-up.
+- **Zone colours on the workout screen** (mockups `1-workout.html` and `1b-workout-recovery-step.html`):
+  - The **Next** tile takes the power-zone colour of the next step: tile background is the zone
+    colour at 14 % over the tile surface, and the icon, the "Next" label and the digits use the zone
+    colour. The duration in the top right corner stays white.
+  - In the **power** tile only the *target* takes the current step's zone colour. The power number
+    stays white.
+  - Use the app's existing zone palette (the one the profile strip uses); it wins over the hex values
+    in the mockups. Where a zone colour has less than 4.5:1 contrast on its tile, lighten it for text
+    only (mockup: recovery bar `#7d8191`, recovery text `#b4b8c8`).
+  - **Heart rate is red** (`#ff5c5c` in the mockups; use the app's existing heart-rate line red if it
+    has a token) on every ride screen and in the ride summary: label, digits, line and per-step averages.
+  - The FTP test keeps lime and cyan and free ride keeps lime. No zone colours there.
 
 ## The layout
 

diff --git a/design/app-redesign/README.md b/design/app-redesign/README.md
@@ -22,8 +22,8 @@ app against (see "Fidelity" in plans 11 and 12).
 The numbers are sample values. The same boards live on the owner's private design canvas
 "FTPunk · 2 m ride dashboard and app redesign"; if the two differ, the canvas is newer.
 
-## Zone colours (decided after the mockups)
+## Zone colours
 
-`1-workout.html` still shows a cyan Next tile, a lime target and pink heart rate. The owner
-decided: Next tile and power target use the power-zone colour from the workout profile, heart
-rate becomes red. Details in `docs/next/11-ride-dashboard.md` ("Decided by the owner").
+`1-workout.html` (sweet-spot step, recovery next) and `1b-workout-recovery-step.html` (recovery
+step, sweet spot next) show the zone-coloured Next tile and target. Heart rate is red on all
+boards. Rules: `docs/next/11-ride-dashboard.md`, "Decided by the owner".
